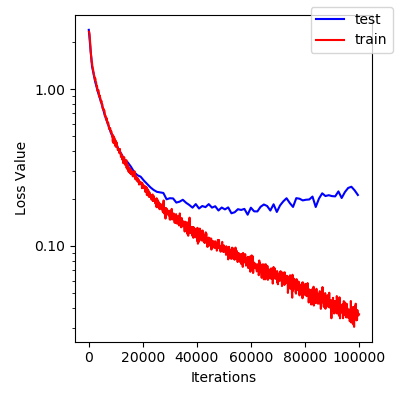
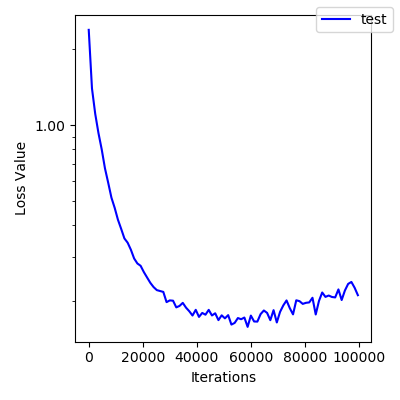
1

diff --git a/experiments/exp2_plot.py b/experiments/exp2_plot.py
@@ -22,9 +22,9 @@ xs = res['test']['step'].to_numpy()
 ys = res['test']['loss'].to_numpy()
 ax.plot(xs, ys, color='blue', label='test')
 
-xs = res['train']['step'].to_numpy()
-ys = res['train']['test_loss'].to_numpy()
-ax.plot(xs, ys, color='red', label='train')
+# xs = res['train']['step'].to_numpy()
+# ys = res['train']['test_loss'].to_numpy()
+# ax.plot(xs, ys, color='red', label='train')
 
 fig.legend()
 fig.tight_layout()

diff --git a/README.md b/README.md
@@ -1,11 +1,11 @@
 ## TODO
 * Implement Targeted, CW, and CW+ adversaries for exp3
 * exp4
-* Go back and do exp0 for pg. 6/7?
 
 * https://arxiv.org/pdf/1608.04644.pdf discretizes pixel values to be
   in [0, 256) and then does lattice search if that isn't good enough.
   This paper seems to just let us pass arbitrary floats.  Try it both ways?
+
 
 
 ## Thoughts
@@ -21,9 +21,7 @@
   this would behave if we patched the ReLU units to pass through
   gradients as if they were softmax (just lie basically)?
 
-* I wonder how things behave if instead of training against
-  adversarial attacks within an epsilon ball, the value of epsilon is
-  sampled at training time from some distribution?
+* I wonder how things behave if instead of training against adversarial attacks within an epsilon ball, the value of epsilon is sampled at training time from some distribution?  Would that get similar results without the sharp dropoff past that epsilon ball?
 
 * The only scaling experiments look at width, I wonder how depth
   affects things?

diff --git a/experiments/results/results.md b/experiments/results/results.md
@@ -1,4 +1,16 @@
+# Overview
+
 All results are compared to https://arxiv.org/pdf/1706.06083.pdf
+
+I reproduced the graphs in section 5, Experiments, for MNIST but not
+for CIFAR.  It would potentially be interesting to reproduce figures 1
+and 2 from the earlier sections as well.
+
+Their adversarial training scheme is super slow (40 steps of PGD per
+outer step of training), so I didn't reproduce the CIFAR results yet.
+
+
+
 
 # Experiment 1 (Figure 4)
 
